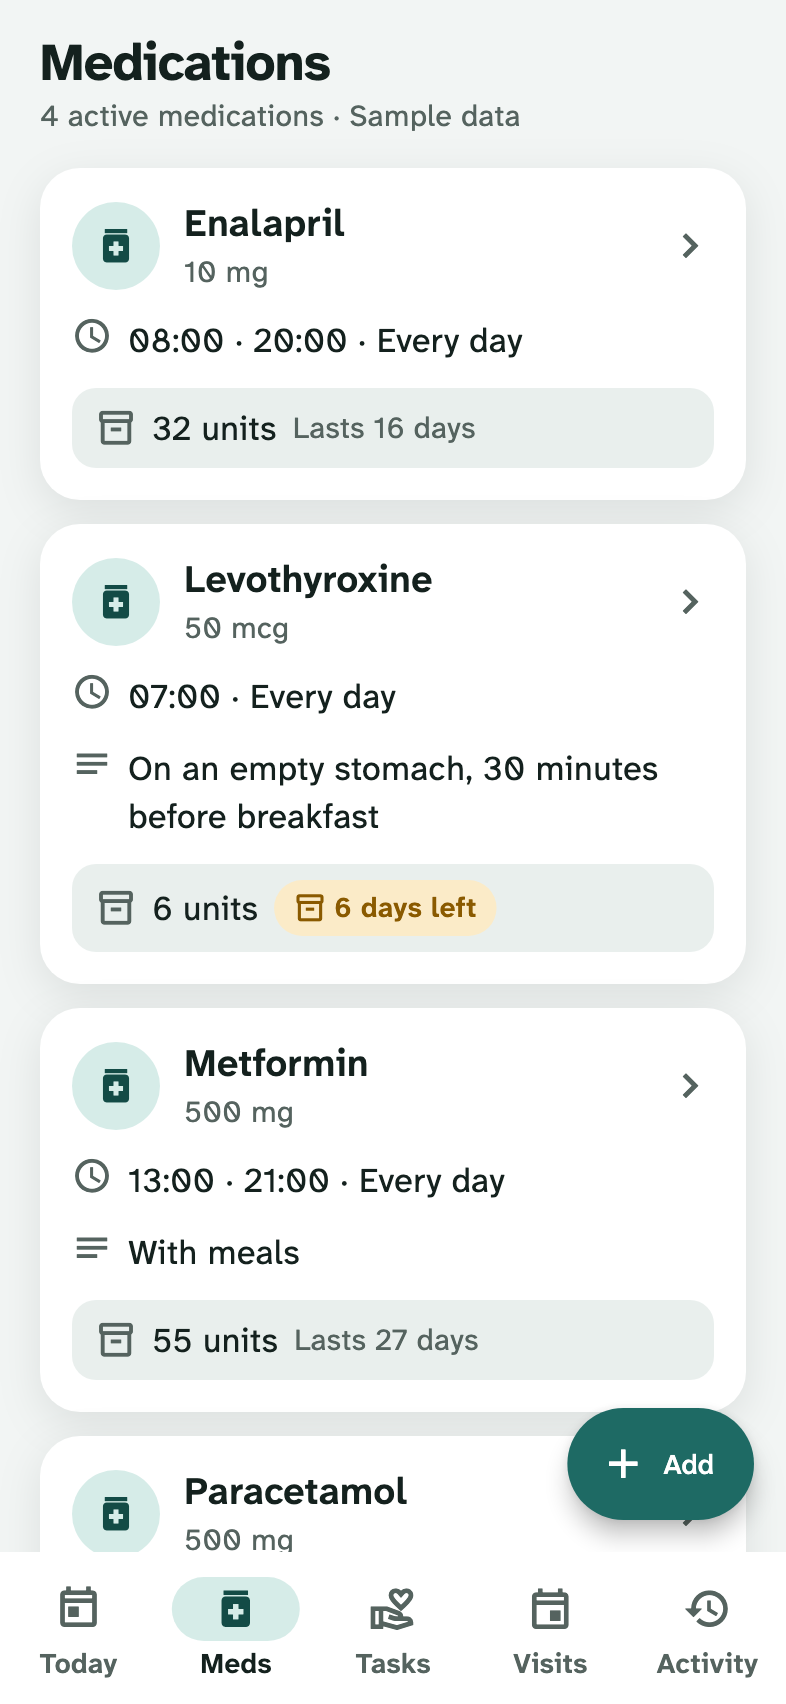
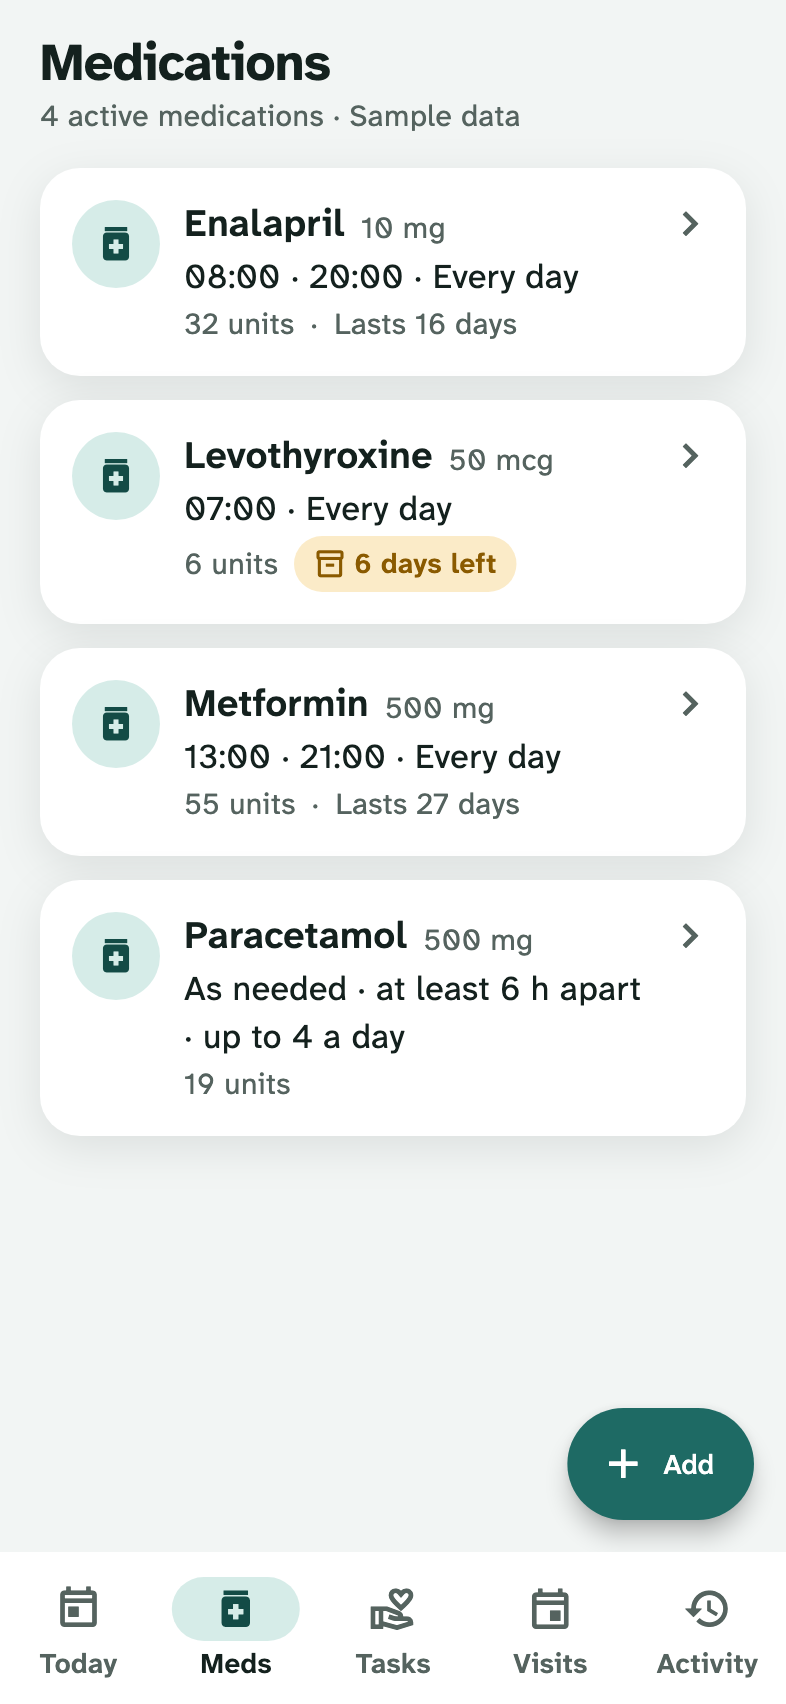
style: compact medication cards and set the note field apart
Medication cards drop to three lines (name and strength, schedule,
stock); instructions stay on the detail. The note field takes the
muted fill so it stands out from the white bar it sits on.

diff --git a/lib/features/medications/presentation/screens/medications_screen.dart b/lib/features/medications/presentation/screens/medications_screen.dart
@@ -5,7 +5,6 @@ import 'package:i_care/core/l10n/failure_messages.dart';
 import 'package:i_care/core/l10n/l10n.dart';
 import 'package:i_care/core/router/app_routes.dart';
 import 'package:i_care/core/theme/app_colors.dart';
-import 'package:i_care/core/theme/app_radius.dart';
 import 'package:i_care/core/theme/app_spacing.dart';
 import 'package:i_care/core/theme/app_text_styles.dart';
 import 'package:i_care/core/utils/formatters.dart';
@@ -83,6 +82,8 @@ class MedicationsScreen extends ConsumerWidget {
   }
 }
 
+/// A medication in three lines: its name and strength, when it is
+/// given, and how much is left. Instructions are on its detail.
 class _MedicationCard extends StatelessWidget {
   const _MedicationCard({required this.row, required this.needsReview});
 
@@ -97,134 +98,88 @@ class _MedicationCard extends StatelessWidget {
     final locale = Localizations.localeOf(context).toLanguageTag();
     final medication = row.medication;
     final details = medication.details;
+    final muted = AppTextStyles.bodyMuted.copyWith(
+      color: context.colors.inkMuted,
+    );
 
     return AppCard(
       onTap: () => context.push(AppRoutes.medicationPath(medication.id)),
-      child: Column(
+      child: Row(
         crossAxisAlignment: CrossAxisAlignment.start,
         spacing: AppSpacing.md,
         children: [
-          Row(
-            spacing: AppSpacing.md,
-            children: [
-              MedicationIcon(form: details.form),
-              Expanded(
-                child: Column(
-                  crossAxisAlignment: CrossAxisAlignment.start,
-                  spacing: AppSpacing.xxs,
+          MedicationIcon(form: details.form),
+          Expanded(
+            child: Column(
+              crossAxisAlignment: CrossAxisAlignment.start,
+              spacing: AppSpacing.xxs,
+              children: [
+                Wrap(
+                  spacing: AppSpacing.sm,
+                  crossAxisAlignment: WrapCrossAlignment.end,
                   children: [
                     Text(details.name, style: AppTextStyles.title),
-                    Text(
-                      details.strength,
-                      style: AppTextStyles.bodyMuted.copyWith(
-                        color: context.colors.inkMuted,
-                      ),
-                    ),
+                    if (details.strength.isNotEmpty)
+                      Text(details.strength, style: muted),
                   ],
                 ),
-              ),
-              Icon(Icons.chevron_right, color: context.colors.inkMuted),
-            ],
-          ),
-          if (needsReview)
-            StatusPill(
-              icon: Icons.error,
-              label: l10n.medicationConflictBadge,
-              color: context.colors.overdue,
-              background: context.colors.overdueSoft,
-            ),
-          _InfoRow(
-            icon: Icons.schedule,
-            text: medication.schedule.describe(l10n, locale),
-          ),
-          if (details.instructions.isNotEmpty)
-            _InfoRow(icon: Icons.notes, text: details.instructions),
-          _StockRow(stock: row.stock, locale: locale),
-        ],
-      ),
-    );
-  }
-}
-
-class _InfoRow extends StatelessWidget {
-  const _InfoRow({required this.icon, required this.text});
-
-  final IconData icon;
-  final String text;
-
-  static const _iconSize = 20.0;
-
-  @override
-  Widget build(BuildContext context) {
-    return Row(
-      crossAxisAlignment: CrossAxisAlignment.start,
-      spacing: AppSpacing.sm,
-      children: [
-        Icon(icon, size: _iconSize, color: context.colors.inkMuted),
-        Expanded(child: Text(text, style: AppTextStyles.body)),
-      ],
-    );
-  }
-}
-
-/// Units left on a soft background, flagged when low.
-class _StockRow extends StatelessWidget {
-  const _StockRow({required this.stock, required this.locale});
-
-  final StockLevel? stock;
-  final String locale;
-
-  static const _iconSize = 20.0;
-
-  @override
-  Widget build(BuildContext context) {
-    final l10n = context.l10n;
-    final stock = this.stock;
-    return Container(
-      padding: const EdgeInsets.symmetric(
-        horizontal: AppSpacing.md,
-        vertical: AppSpacing.sm,
-      ),
-      decoration: BoxDecoration(
-        color: context.colors.surfaceMuted,
-        borderRadius: BorderRadius.circular(AppRadius.sm),
-      ),
-      child: Row(
-        spacing: AppSpacing.sm,
-        children: [
-          Icon(
-            Icons.inventory_2_outlined,
-            size: _iconSize,
-            color: context.colors.inkMuted,
-          ),
-          Expanded(
-            child: Wrap(
-              spacing: AppSpacing.sm,
-              runSpacing: AppSpacing.xs,
-              crossAxisAlignment: WrapCrossAlignment.center,
-              children: [
                 Text(
-                  stock == null
-                      ? l10n.stockNotCounted
-                      : l10n.stockUnitsCount(
-                          Formatters.units(stock.units, locale),
-                        ),
+                  medication.schedule.describe(l10n, locale),
                   style: AppTextStyles.body,
                 ),
-                if (stock case final StockLevel level when level.isLow)
-                  LowStockPill(level: level)
-                else if (stock?.daysLeft case final int days)
-                  Text(
-                    l10n.stockLasts(days),
-                    style: AppTextStyles.bodyMuted.copyWith(
-                      color: context.colors.inkMuted,
+                _StockLine(stock: row.stock, locale: locale),
+                if (needsReview)
+                  Padding(
+                    padding: const EdgeInsets.only(top: AppSpacing.xs),
+                    child: StatusPill(
+                      icon: Icons.error,
+                      label: l10n.medicationConflictBadge,
+                      color: context.colors.overdue,
+                      background: context.colors.overdueSoft,
                     ),
                   ),
               ],
             ),
           ),
+          Icon(Icons.chevron_right, color: context.colors.inkMuted),
         ],
       ),
+    );
+  }
+}
+
+/// Units left and how long they last, or a pill when running low.
+class _StockLine extends StatelessWidget {
+  const _StockLine({required this.stock, required this.locale});
+
+  final StockLevel? stock;
+  final String locale;
+
+  @override
+  Widget build(BuildContext context) {
+    final l10n = context.l10n;
+    final stock = this.stock;
+    final muted = AppTextStyles.bodyMuted.copyWith(
+      color: context.colors.inkMuted,
+    );
+    return Wrap(
+      spacing: AppSpacing.sm,
+      runSpacing: AppSpacing.xs,
+      crossAxisAlignment: WrapCrossAlignment.center,
+      children: [
+        Text(
+          stock == null
+              ? l10n.stockNotCounted
+              : l10n.stockUnitsCount(Formatters.units(stock.units, locale)),
+          style: muted,
+        ),
+        if (stock case final StockLevel level when level.isLow)
+          LowStockPill(level: level)
+        else if (stock?.daysLeft case final int days) ...[
+          Text('·', style: muted),
+          Text(l10n.stockLasts(days), style: muted),
+        ],
+      ],
     );
   }
 }

diff --git a/lib/features/handoff/presentation/screens/handoff_screen.dart b/lib/features/handoff/presentation/screens/handoff_screen.dart
@@ -163,7 +163,11 @@ class _NoteComposerState extends ConsumerState<_NoteComposer> {
                 minLines: 1,
                 maxLines: _maxLines,
                 style: AppTextStyles.body,
-                decoration: InputDecoration(hintText: l10n.noteFieldHint),
+                // Muted, so the field stands out from the white bar.
+                decoration: InputDecoration(
+                  hintText: l10n.noteFieldHint,
+                  fillColor: context.colors.surfaceMuted,
+                ),
               ),
             ),
             IconButton.filled(
